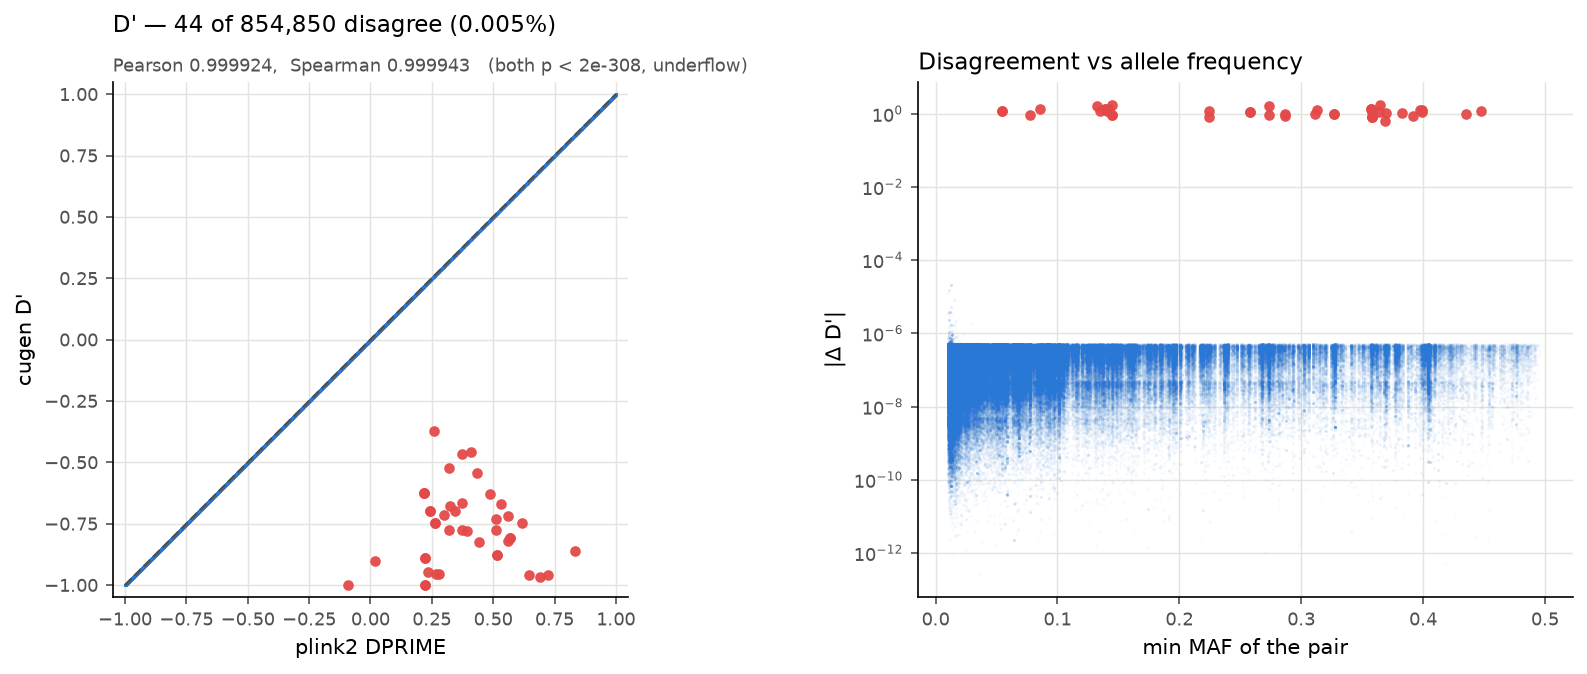
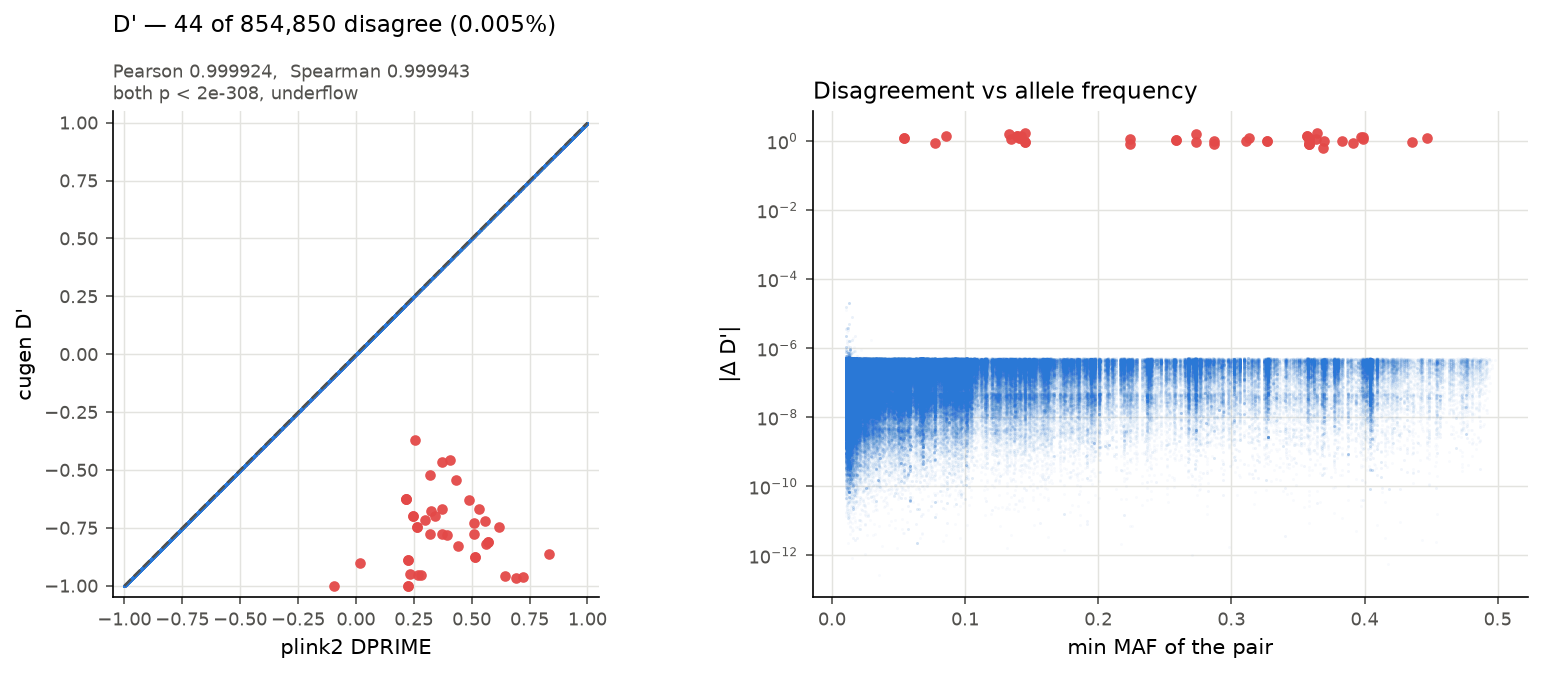
Wrap the correlation subtitle onto two lines
On one line the p-value clause pushed the subtitle wider than its own
panel and ran under the neighbouring subplot's title. Coefficients stay
on the first line -- they are the message -- and the p-values drop to a
second.

diff --git a/benchmarks/plot_concordance.py b/benchmarks/plot_concordance.py
@@ -53,10 +53,14 @@ def corr_note(x, y):
     def pval(p):
         return f"< {_TINY:.0e}, underflow" if p < _TINY else f"= {p:.1e}"
 
+    # Two lines: the coefficients are the message and stay on the first, the
+    # p-values go below. On one line this ran wider than the panel and
+    # collided with the neighbouring subplot's title.
     if pval(pp) == pval(sp):
-        return f"Pearson {coef(pr)},  Spearman {coef(sr)}   (both p {pval(pp)})"
-    return (f"Pearson {coef(pr)} (p {pval(pp)}),  "
-            f"Spearman {coef(sr)} (p {pval(sp)})")
+        return (f"Pearson {coef(pr)},  Spearman {coef(sr)}\n"
+                f"both p {pval(pp)}")
+    return (f"Pearson {coef(pr)},  Spearman {coef(sr)}\n"
+            f"p {pval(pp)} and p {pval(sp)}")
 
 # The parquet is ~40 MB and is not committed; regenerate it with
 #   python benchmarks/concordance.py --bfile <bed> --cugen <cugen> \
@@ -106,7 +110,7 @@ for ax, (name, c1, c2, xlabel) in zip(axes, panels):
     ax.set_xlabel(xlabel, fontsize=9.5, color=INK2)
     ax.set_ylabel(f"cugen {name}", fontsize=9.5, color=INK2)
     ax.set_title(f"{name}   max|Δ| = {err.max():.2e}", fontsize=11,
-                 color=INK, loc="left", pad=24)
+                 color=INK, loc="left", pad=38)
     ax.text(0.0, 1.012, corr_note(x, y), transform=ax.transAxes,
             fontsize=8.5, color=INK2, ha="left", va="bottom")
     ax.grid(color=GRID, linewidth=0.7)
@@ -190,7 +194,7 @@ if bad.any():
     ax2[0].set_aspect("equal")
     ax2[0].set_title(f"D' — {int(bad.sum()):,} of {len(df):,} disagree "
                      f"({100*bad.mean():.3f}%)", fontsize=11, loc="left",
-                     pad=24)
+                     pad=38)
     _x, _y = df["dp_plink"].to_numpy(), df["dp_cugen"].to_numpy()
     _ok = np.isfinite(_x) & np.isfinite(_y)
     ax2[0].text(0.0, 1.012, corr_note(_x[_ok], _y[_ok]),
